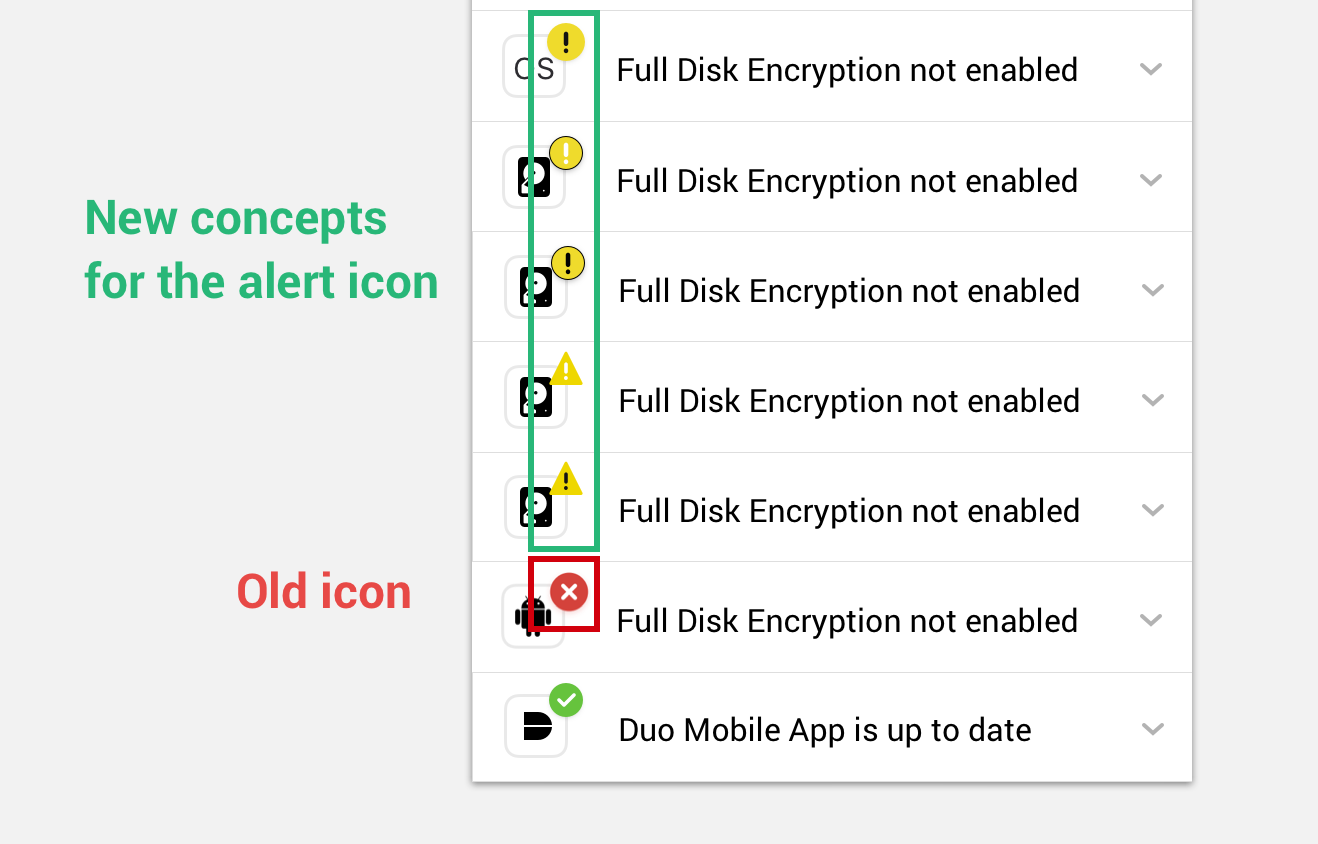
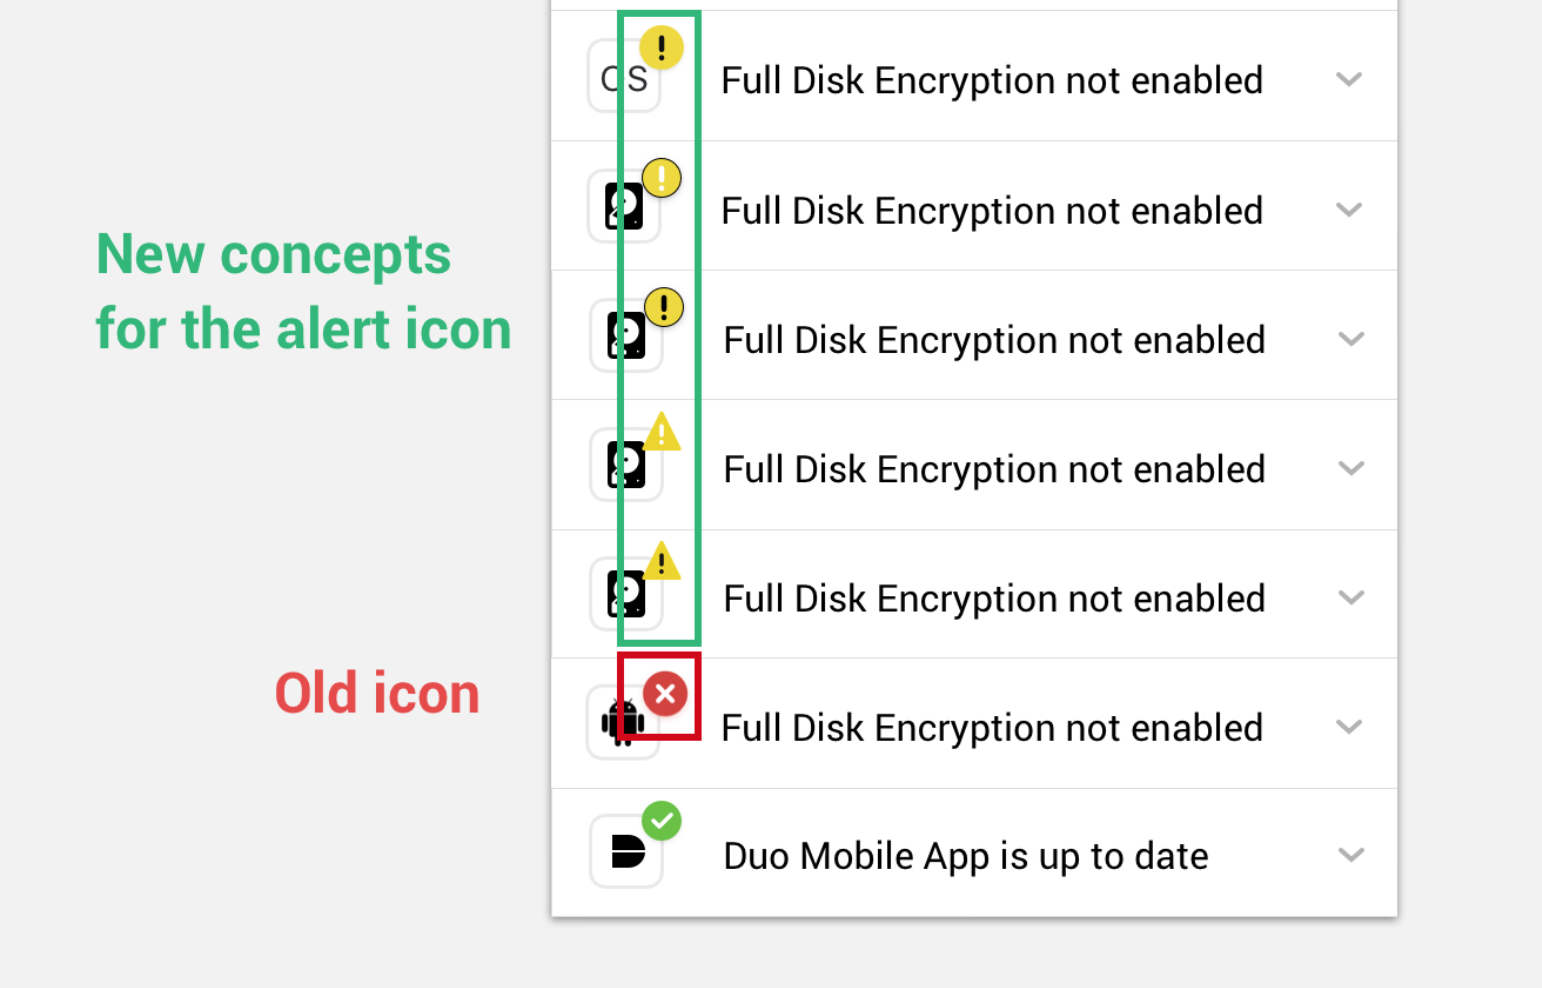
changing Duo and OleOle projects

diff --git a/Projects/duo.html b/Projects/duo.html
@@ -64,37 +64,32 @@
 
 
                 <p>&mdash;&mdash;</p>
-                <h4>NEEDED SMALL DESIGN FIXES</h4>
-                <p>The feature in its Beta phase did a good job at explaining why a particular good security practice was important but did not provide detailed enough instructions for remediation of the issue. Moreover, the feature was grouped on the home screen, with another feature, that was going to be taken out for the GA release. This meant that it was necessary to rethink where the Security Checkup feature would be located and how would a user interact with it. Lastly, we wanted users to perceive the feature as a 'helper' rather than just an alert. We found out that this could be achieved by using a different alert icon and changing the text.
-                </p>
+                <h4>NEEDED SOME DESIGN FIXES</h4>
+                <!-- <p>The feature in its Beta phase did a good job at explaining why a particular good security practice was important but did not provide detailed enough instructions for remediation of the issue. Moreover, the feature was grouped on the home screen, with another feature, that was going to be taken out for the GA release. This meant that it was necessary to rethink where the Security Checkup feature would be located and how would a user interact with it. Lastly, we wanted users to perceive the feature as a 'helper' rather than just an alert. We found out that this could be achieved by using a different alert icon and changing the text.
+                </p> -->
+                <p>Initial testing of the feature in the Beta version brought three problems to light. Users perceived the feature as simply an alert rather than a helper. The feature also did not accomodate edge cases that affected users' trust in the feature. Moreover, the feature was grouped on the home screen, with another feature, that was going to be taken out for the GA release. This meant that it was necessary to rethink where the Security Checkup feature would be located and how would a user interact with it. </p>
                 <img src="SC_old.png" alt="beta design">
                 <p>&mdash;&mdash;</p>
-                <h4>WHAT I DELIVERED</h4>
-                <p>By the end of my internship, I had -
-                <ul>
-                    <li>Redesigned the flow, icons, text and delivered high quality assets for Security Checkup feature on Duo Mobile (Android)</li>
-                    <li>Designed a small functionality in the Duo Admin Panel for turning on the feature </li>
-                    <li>Moderated 4 usability testing sessions</li>
-                    <li>Worked collaboratively with user researchers and developers</li>
-                </ul></p>
-                <p>&mdash;&mdash;</p>
+                
                 <h4>HOW I DID IT</h4>
                 <p>My mentor played a huge role in shaping the project - through regular 1:1 meetings, we were able to narrow down the scope of the project and establish a timeline. The timeline accounted for various phases such as brainstorming, designing and frequent feedback/ standup sessions. I rapidly designed and verified the prototypes by hallway testing* them and also showing it to the much experienced designers in the Product Design team. I also found it beneficial to get opinions on my designs from a different perspective such as a developer's.</p>
                 <p style="font-size: 14px;line-height:22px; "><i>*Hallway testing, as the name implies, is a quick way of testing design concepts by utilizing bystanders in a hallway (or a high foot traffic area) as test participants</i></p>  
                 <br>
-                <p><b>I. Changing the Alert icon</b></p>
+                <p>&mdash;&mdash;</p>
+                <p>The entire redesign comprised three stages — changing the perception, providing additional context and improving user interactions. </p>
+                <p><b>I. Changing the users' perception</b></p>
                 <p>Some users had no control over a few security issues (such as manufacturers discontinuing OS updates for old phones, especially for Android). The strong language and red alert icons for these flagged issues made such users feel helpless and resulted into frustration. To alleviate this issue, I decided to change the way users perceived an alert by redesigning the icon. In this process, I looked at how existing products such as antivirus softwares handled alerts and created different iterations by tweaking the symbols and colors.</p>
-                <img src="icon.png" alt="icon iterations">
+                <img src="SCold.png" alt="icon iterations">
                 <p>The various iterations were put to test through hallway testing and the design team’s stand-up sessions. Factoring in the feedback from these sessions, I decided to choose the icon that provided a high contrast and was easily distinguishable from the green (all okay) icon. To arrive at this final design, I changed the color of the alert icon from red to yellow and used an exclamation mark instead of an X to make it resemble a warning. The shape of the icon was also changed from a circle to a triangle to distinguish it from the green (all okay) icon.</p>
                 <br>
-                <p><b>II. Changing the landing text and instructions</b></p>
+                <p><b>II. Providing context through landing text and instructions</b></p>
                 <p>There were cases where Android users who had enabled Full Disk Encryption (FDE) were getting notified by the feature stating that their FDE was disabled, leading to confusion. It was found that devices having FDE enabled but with no passcode enabled were not passing the security test done by the feature. Remediation instructions that factored in such cases were missing in the Beta version. Additionally, the text label explicitly saying ‘FDE not enabled’ added to the confusion at the user’s end.</p>
                 <img src="FDElanding.png" alt="concept iterations for dropdown contents for FDE">
                 <p>My first step was to change the language from 'FDE not enabled' to 'FDE issue detected’ in the text label. Next, I added some landing text in the dropdown to provide more context to the text label and lead the user to further actions. As the remediation instructions had to account for <i>normal cases</i> (FDE not enabled) and <i>edge cases</i> (FDE enabled + no passcode), I decided to create separate pages for these two cases. Information relating to the importance of enabling FDE (Why) was placed with the normal case (not enabled). Laying out the information in this way helped reduce the amount of text under each dropdown label on the main screen and prevented users from getting confused.</p>
                 <img src="FDE.png" alt="FDE final design">
-                <p>It was also challenging to design for the Call to Action (CTA) links for How and Why. We wanted the users to understand that these links would lead to a new page in the app itself and not to a new page in the browser. It was necessary to make these links appear as clickable to the users. I changed the tone of the text in the links to first person to make them stand out from the landing text under each label. I also added a slight background fill for the links to make them pop out on the screen. This design concept tested well through hallway testing as the test subjects were successful in interpreting the nature of these links and were able to navigate the scenario provided to them. </p>
+                <p> We wanted the users to understand that the Call to Action (CTA) links for How and Why would lead to a new page in the app itself and not to a new page in the browser. It was also necessary to make the links appear as clickable to the users. To tackle these two issues, I changed the tone of the text in the links to first person to make them stand out from the text under each label. I also added a slight background fill for the links to make them pop out on the screen. This design concept tested well through multiple rounds of hallway testing. </p>
                 <br>
-                <p><b>III. Changing the interaction</b></p>
+                <p><b>III. Improving the user interaction</b></p>
                 <p>There were two ways a user could access the Security Checkup feature in the Beta version – by clicking on the feature on the main screen or by going to Settings menu of Duo Mobile. We did not want the feature to persist on the main screen as it would take up space and also distract the user from approving push notifications. To tackle this issue, I worked closely with an engineering intern on the Mobile team to brainstorm different ways of showing the feature.</p>
                 <img src="SC_oldinteraction.png" alt="concept iterations">
                 <p>We came up with the simple idea of a pop-up and thought of testing it out. However, this idea of the feature popping-up on the main screen tested poorly in hallway testing. The test subjects reported thinking that they would need to dismiss the pop-up before approving any notifications in the app. This exploration did not work well, so we got back to the whiteboard.</p>
@@ -104,6 +99,15 @@
                 <p>&mdash;&mdash;</p>
                 <h4>SO WHAT HAPPENED NEXT</h4>
                 <p>With the designs tested and approved by the senior designers, I handed them off to the developers though a tool called Zepelin. I developed the Android UI screens only while the iOS ones were developed based off my designs. Text (landing text + remediation instructions) and assets (icons and illustrations) were some of the other deliverables that I delivered to the developers. The feature was released in late September and was made available to all Duo users. However, to enable access to this feature for all users in an environment, IT Admins need to configure this feature through the Admin Panel first. </p>
+                <p>&mdash;&mdash;</p>
+                <h4>WHAT I DELIVERED</h4>
+                <p>By the end of my internship, I had -
+                <ul>
+                    <li>Redesigned the flow, icons, text and delivered high quality assets for Security Checkup feature on Duo Mobile (Android)</li>
+                    <li>Designed a small functionality in the Duo Admin Panel for turning on the feature </li>
+                    <li>Moderated 4 usability testing sessions</li>
+                    <li>Worked collaboratively with user researchers, developers and a PM</li>
+                </ul></p>
                 <p>&mdash;&mdash;</p>
                 <h4>LOOKING BACK AT A WONDERFUL SUMMER</h4>
                 <p>I am fortunate to have spent my summer at a wonderful company being surrounded by some of the kindest people I have ever met. Working on the Security Checkup feature with almost full autonomy was daunting, as I always had the mindset that I might mess something up. But my mentor's guidance and support was something that I will always be grateful for. </p> 

diff --git a/Projects/oleole.html b/Projects/oleole.html
@@ -139,6 +139,12 @@
 
                 <h4>REFLECTING ON THE PROJECT</h4>
                 <p>My role throughout the course of the project was that of a UX Designer. I actively contributed to sketching, wireframing and prototyping along with generating the final concept video. Initially we as a team, wanted the system to have a plethora of features but as time passed we realized that our ideas could not be implemented in that short period of time. One important thing I learned from this project is that stripping down the features to create an MVP with just the core features should be the first step in every project.</p>
+                 
+                 <p>&mdash;&mdash;</p>
+
+                <h4>EDIT: SOME INTERESTING NEWS</h4>
+                <p>A month after we turned in our project, Facebook released a new feature called <a href="https://www.facebook.com/photo.php?fbid=10154965097952063&set=a.415427007062.200610.576027062&type=3&theater" target="_top" style="text-decoration: none;border-bottom-style: dotted;border-width:1.25px;">Watch Party</a> There were quite a few similarities between OleOle and Watch Party which delighted us. Assuming this as a source of validation, we realized that we were on the right path when we decided to develop OleOle.</p>
+                <img src="watchparty.png" alt="Facebook Watch Party feature"> 
 
                 </ul></p>
                 </div>
